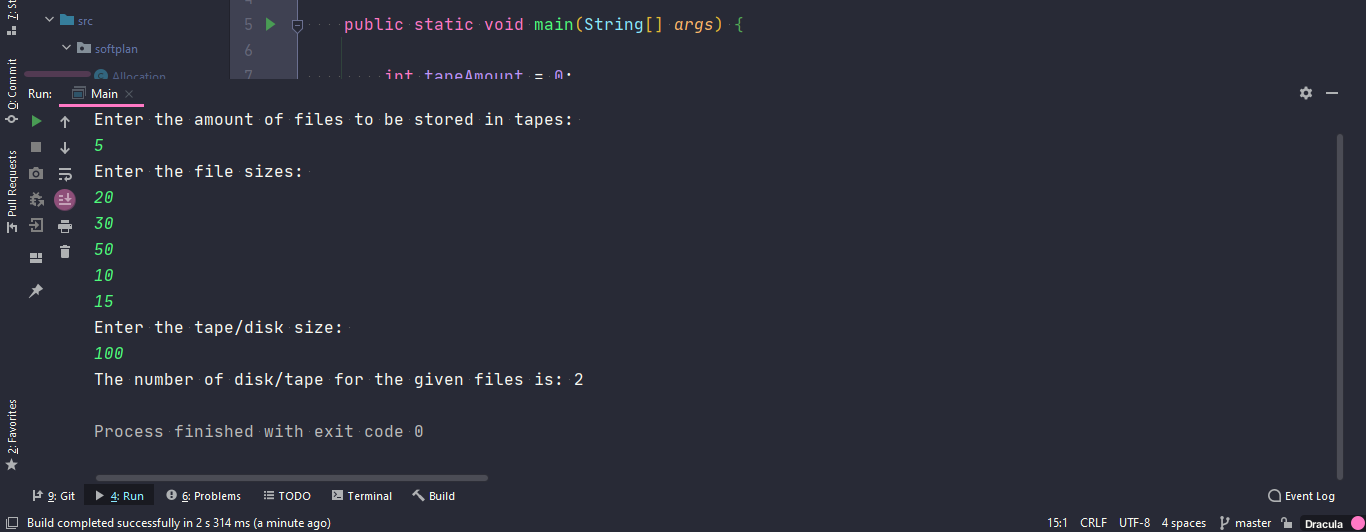
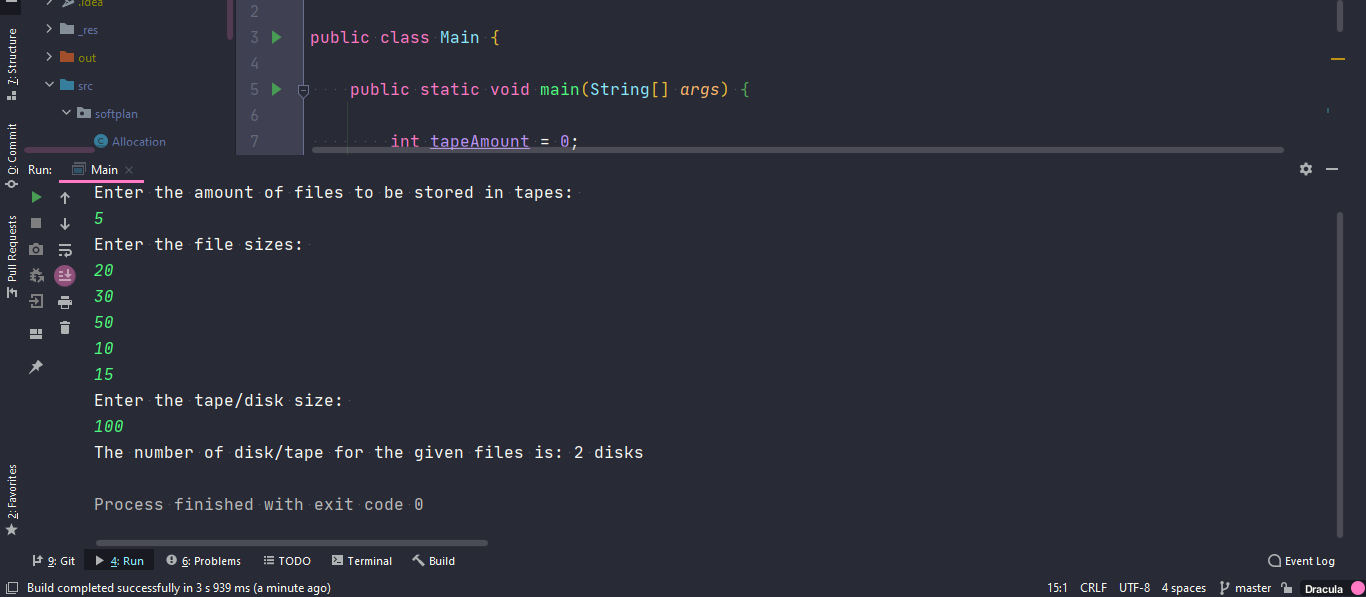
Update Main.java, preview.png and README.md

diff --git a/act1/batchAlgorithm/src/softplan/Main.java b/act1/batchAlgorithm/src/softplan/Main.java
@@ -24,7 +24,7 @@ public class Main {
         if (tapeSize < newTape) {
             tapeAmount++;
         }
-        System.out.println("The number of disk/tape for the given files is: " + tapeAmount);
+        System.out.println("The number of disk/tape for the given files is: " + tapeAmount + " disks");
 
     }
 }

diff --git a/act1/batchAlgorithm/README.md b/act1/batchAlgorithm/README.md
@@ -56,3 +56,76 @@ Tipo de Aplicação: Console application
 <div align="center"><img src="./_res/preview.png" alt="Star Wars CLI Preview" /></div>
 
     *Obs.: Os exercícios foram feitos em inglês para manter a consistência conforme o exercício 1.
+
+<br />
+
+    **Outras Observações:
+    Conforme o valor dado da Saída: 2 (discos), o algorítmo implementado foi o conforme o modelo a seguir:
+
+```java
+public class YourClassNameHere {
+    public static void main(String[] args) {
+      
+      int diskSize = 100;
+      int newDisk = diskSize;
+      int diskNum = 0;
+      int[] fileList = {20, 30, 50, 10, 15};
+      
+      for (int index = 0; index < fileList.length; index++) {
+        diskSize = diskSize - fileList[index];
+        
+          if (diskSize <= 0) {
+                      
+            diskNum = diskNum + 1;
+            
+            diskSize = newDisk;
+            
+          } 
+      }
+      if (diskSize < newDisk) {
+        diskNum = diskNum + 1;
+        System.out.println("Number of disks for the given files: " + diskNum);
+      } else {
+        System.out.println("Number of disks for the given files: " + diskNum);
+      }
+
+    }
+}
+```
+> Resultado: 2 discos
+
+    **Para atender a limitação "É proibido colocar mais de  2 arquivos no mesmo disco.", o algorítmo indicado seria conforme o modelo a seguir:
+
+```java
+public class Main {
+    public static void main(String[] args) {
+      
+      int diskSize = 100;
+      int newDisk = diskSize;
+      int diskNum = 0;
+      int[] fileList = {20, 30, 50, 10, 15};
+      
+      for (int index = 0; index < fileList.length; index++) {
+        diskSize = diskSize - fileList[index];
+        // Add 1 to the index
+        int fileAmount = index + 1;        
+          // Change the declaration
+          if (fileAmount % 2 == 0) {
+                      
+            diskNum = diskNum + 1;
+            
+            diskSize = newDisk;
+            
+          } 
+      }
+      if (diskSize < newDisk) {
+        diskNum = diskNum + 1;
+        System.out.println("Number of disks for the given files: " + diskNum);
+      } else {
+        System.out.println("Number of disks for the given files: " + diskNum);
+      }
+
+    }
+}
+```
+> Resultado: 3 discos
